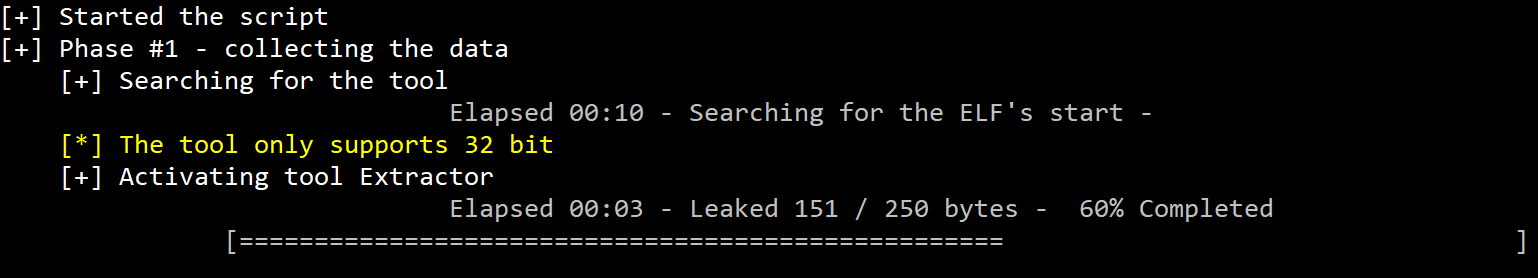
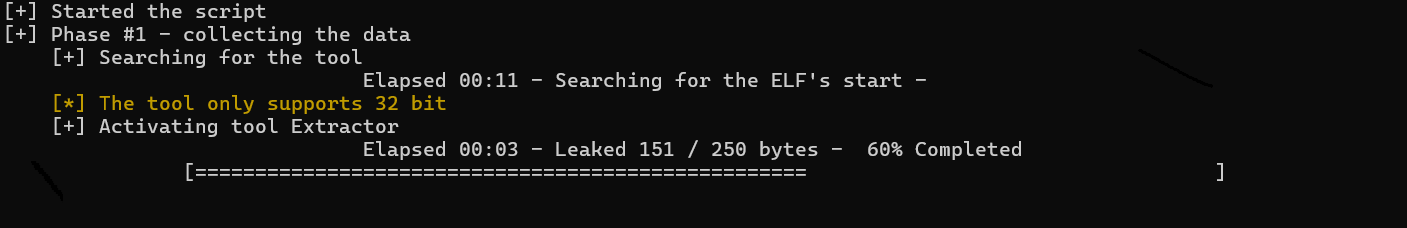
[docs] Update docs
Update the docs to reflect the recent changes.

diff --git a/docs/Logger.rst b/docs/Logger.rst
@@ -9,15 +9,15 @@ Configurations
 
    Default color mapping for each logging level::
    
-	logging.DEBUG    ==> Fore.LIGHTCYAN_EX
+	logging.DEBUG    ==> Fore.BLUE
 	
-	logging.INFO     ==> Fore.LIGHTWHITE_EX
+	logging.INFO     ==> Fore.RESET
 	
-	logging.WARN     ==> Fore.LIGHTYELLOW_EX
+	logging.WARN     ==> Fore.YELLOW
 	
-	logging.ERROR    ==> Fore.LIGHTRED_EX
+	logging.ERROR    ==> Fore.RED
 	
-	logging.CRITICAL ==> Fore.LIGHTRED_EX
+	logging.CRITICAL ==> Fore.RED
 
 Attributes
 ++++++++++